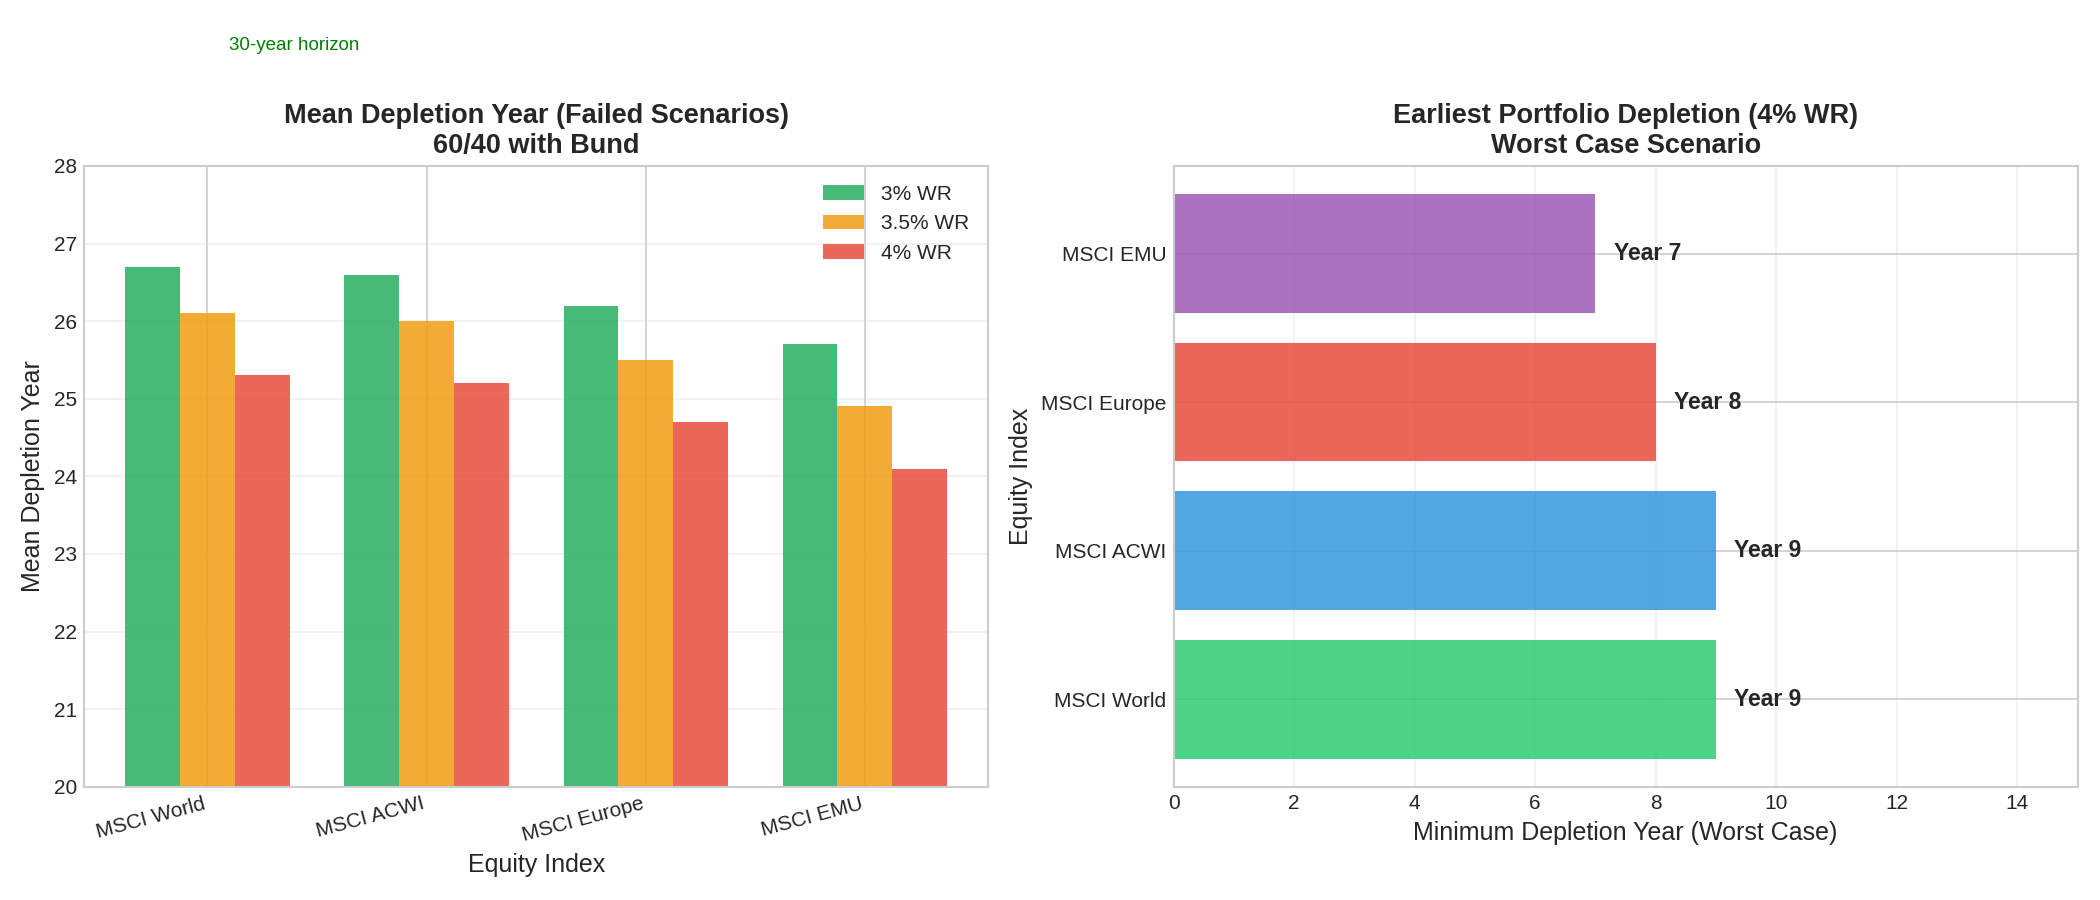
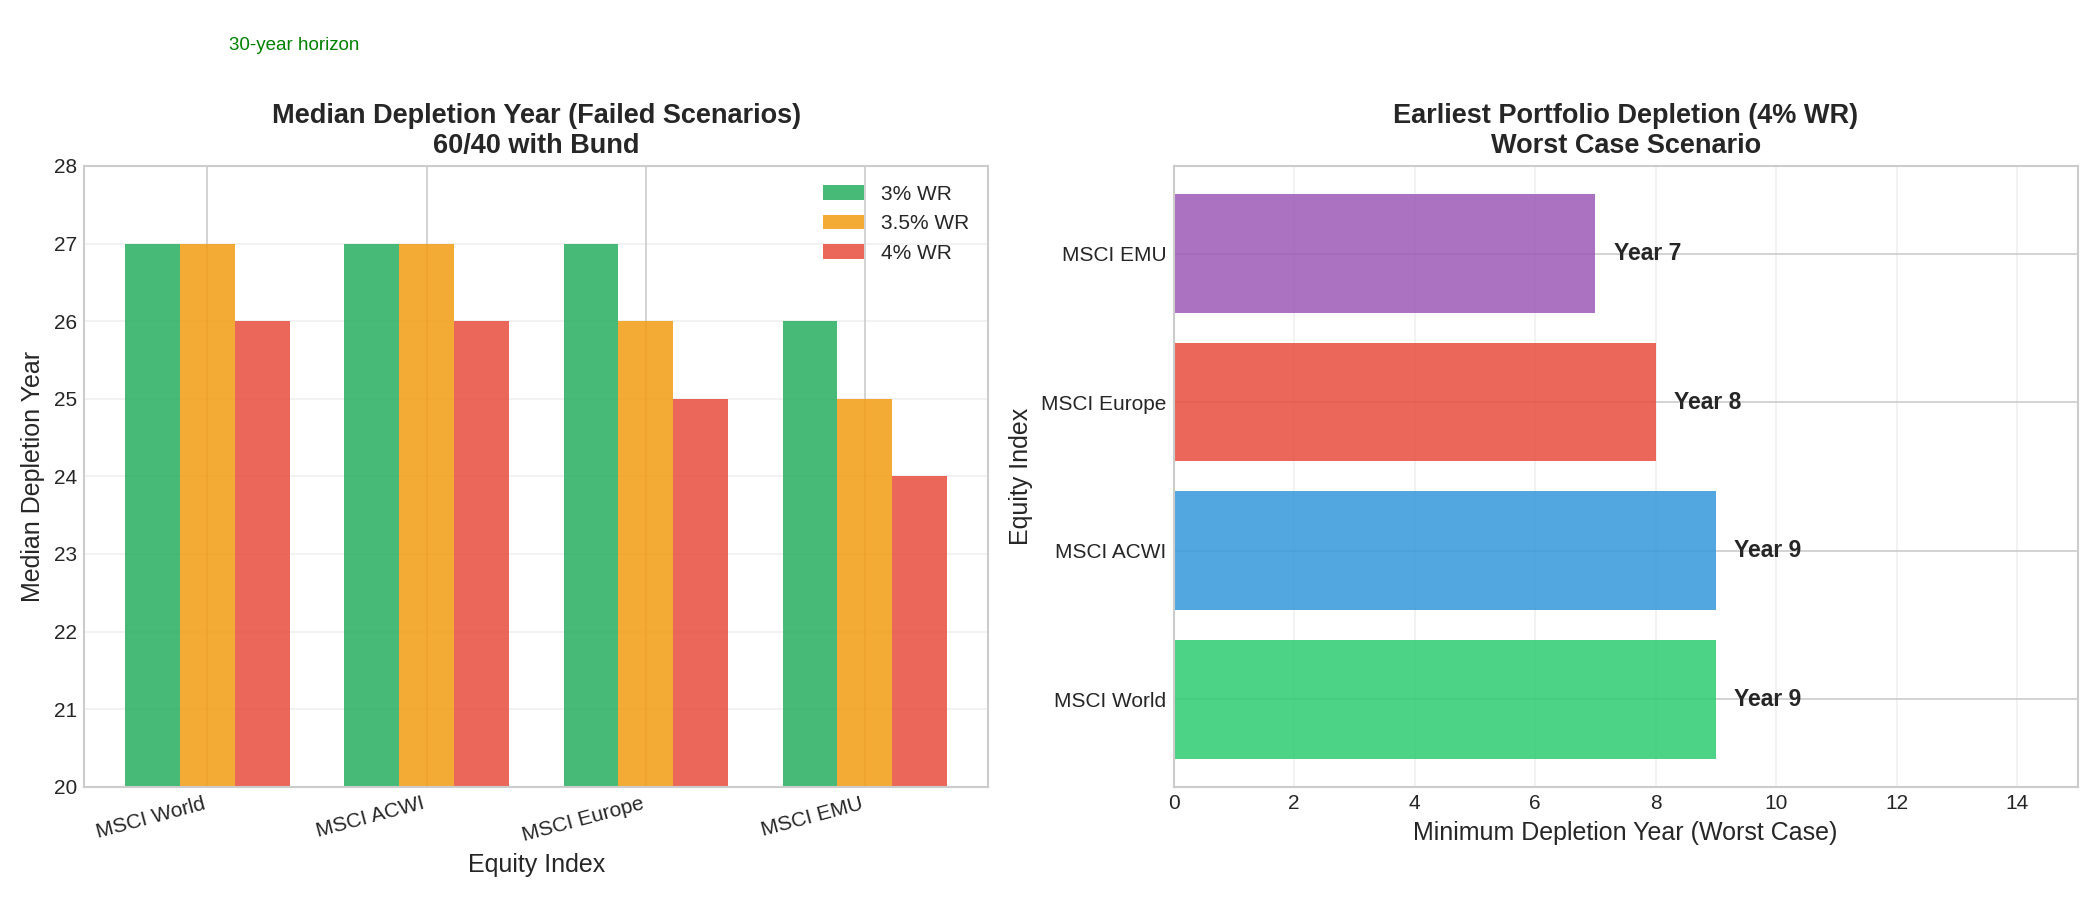
ange from mean to median

diff --git a/src/tools/plots.py b/src/tools/plots.py
@@ -621,7 +621,7 @@ def plot_09_depletion_year_analysis(df: pd.DataFrame, output_dir: Path) -> None:
         plt.close()
         return
 
-    # Left plot: Mean Depletion Year by Index and WR (60/40 Bund)
+    # Left plot: Median Depletion Year by Index and WR (60/40 Bund)
     ax1 = axes[0]
     mask = (subset["Equity_Pct"] == 60) & (subset["Bond"] == "Bund")
     plot_data = subset[mask].copy()
@@ -633,7 +633,7 @@ def plot_09_depletion_year_analysis(df: pd.DataFrame, output_dir: Path) -> None:
 
         for i, wr in enumerate(withdrawal_rates):
             wr_data = plot_data[plot_data["WR"] == wr].set_index("Equity")
-            values = [wr_data.loc[idx, "Mean_Depletion"] if idx in wr_data.index else 0
+            values = [wr_data.loc[idx, "Median_Depletion"] if idx in wr_data.index else 0
                       for idx in INDEX_ORDER]
             offset = (i - 1) * width
             bars = ax1.bar(x + offset, values, width, label=f"{wr:g}% WR",
@@ -642,8 +642,8 @@ def plot_09_depletion_year_analysis(df: pd.DataFrame, output_dir: Path) -> None:
         ax1.set_xticks(x)
         ax1.set_xticklabels(INDEX_ORDER, rotation=15, ha="right", fontsize=10)
         ax1.set_xlabel("Equity Index", fontsize=12)
-        ax1.set_ylabel("Mean Depletion Year", fontsize=12)
-        ax1.set_title("Mean Depletion Year (Failed Scenarios)\n60/40 with Bund",
+        ax1.set_ylabel("Median Depletion Year", fontsize=12)
+        ax1.set_title("Median Depletion Year (Failed Scenarios)\n60/40 with Bund",
                       fontsize=13, fontweight="bold")
         ax1.legend(fontsize=10)
         ax1.set_ylim(20, 28)
@@ -731,18 +731,18 @@ def plot_10_depletion_risk_heatmap(df: pd.DataFrame, output_dir: Path) -> None:
                       fontsize=13, fontweight="bold")
         ax1.set_xticklabels([f"{float(x.get_text()):g}%" for x in ax1.get_xticklabels()], fontsize=11)
 
-    # Right: Mean Depletion Year (60/40 allocation)
+    # Right: Median Depletion Year (60/40 allocation)
     ax2 = axes[1]
-    pivot_mean = subset[mask_60].pivot_table(
-        index="Equity", columns="WR", values="Mean_Depletion", aggfunc="mean"
+    pivot_median = subset[mask_60].pivot_table(
+        index="Equity", columns="WR", values="Median_Depletion", aggfunc="median"
     )
-    pivot_mean = pivot_mean.reindex([i for i in INDEX_ORDER if i in pivot_mean.index])
+    pivot_median = pivot_median.reindex([i for i in INDEX_ORDER if i in pivot_median.index])
 
-    if not pivot_mean.empty:
+    if not pivot_median.empty:
         sns.heatmap(
-            pivot_mean,
+            pivot_median,
             annot=True,
-            fmt=".1f",
+            fmt=".0f",
             cmap="RdYlGn",
             center=25,
             vmin=20,
@@ -755,7 +755,7 @@ def plot_10_depletion_risk_heatmap(df: pd.DataFrame, output_dir: Path) -> None:
         )
         ax2.set_xlabel("Withdrawal Rate (%)", fontsize=12)
         ax2.set_ylabel("", fontsize=12)
-        ax2.set_title("Average Depletion Year (Failed Scenarios)\n60/40 with Bund",
+        ax2.set_title("Median Depletion Year (Failed Scenarios)\n60/40 with Bund",
                       fontsize=13, fontweight="bold")
         ax2.set_xticklabels([f"{float(x.get_text()):g}%" for x in ax2.get_xticklabels()], fontsize=11)
 
@@ -794,15 +794,15 @@ def plot_11_depletion_vs_allocation(df: pd.DataFrame, output_dir: Path) -> None:
             if wr_data.empty:
                 continue
 
-            # Plot Min, Mean, Median depletion
+            # Plot Min and Median depletion
             ax.fill_between(wr_data["Equity_Pct"],
                            wr_data["Min_Depletion"],
-                           wr_data["Mean_Depletion"],
+                           wr_data["Median_Depletion"],
                            alpha=0.2, color=WR_COLORS.get(wr, "gray"))
-            ax.plot(wr_data["Equity_Pct"], wr_data["Mean_Depletion"],
+            ax.plot(wr_data["Equity_Pct"], wr_data["Median_Depletion"],
                     marker="o", markersize=6, linewidth=2,
                     color=WR_COLORS.get(wr, "gray"),
-                    label=f"{wr:g}% WR (Mean)")
+                    label=f"{wr:g}% WR (Median)")
             ax.plot(wr_data["Equity_Pct"], wr_data["Min_Depletion"],
                     marker="v", markersize=5, linewidth=1.5,
                     linestyle="--", color=WR_COLORS.get(wr, "gray"),
@@ -821,7 +821,7 @@ def plot_11_depletion_vs_allocation(df: pd.DataFrame, output_dir: Path) -> None:
         ax.axhline(y=30, color="green", linestyle=":", alpha=0.5, linewidth=1.5)
 
     fig.suptitle("Depletion Year vs Equity Allocation\n"
-                 "(Solid=Mean, Dashed=Min, Shaded=Range)",
+                 "(Solid=Median, Dashed=Min, Shaded=Range)",
                  fontsize=15, fontweight="bold", y=1.02)
 
     plt.tight_layout()
@@ -850,13 +850,13 @@ def plot_12_depletion_spread_analysis(df: pd.DataFrame, output_dir: Path) -> Non
         plt.close()
         return
 
-    # Calculate spread
-    subset["Depletion_Spread"] = subset["Mean_Depletion"] - subset["Min_Depletion"]
+    # Calculate spread (Median - Min)
+    subset["Depletion_Spread"] = subset["Median_Depletion"] - subset["Min_Depletion"]
 
     # Left: Spread by Index and WR
     ax1 = axes[0]
     pivot_spread = subset.pivot_table(
-        index="Equity", columns="WR", values="Depletion_Spread", aggfunc="mean"
+        index="Equity", columns="WR", values="Depletion_Spread", aggfunc="median"
     )
     pivot_spread = pivot_spread.reindex([i for i in INDEX_ORDER if i in pivot_spread.index])
 
@@ -864,33 +864,31 @@ def plot_12_depletion_spread_analysis(df: pd.DataFrame, output_dir: Path) -> Non
         pivot_spread.plot(kind="bar", ax=ax1, width=0.8,
                           color=[WR_COLORS.get(c, "gray") for c in pivot_spread.columns])
         ax1.set_xlabel("Equity Index", fontsize=12)
-        ax1.set_ylabel("Spread (Mean - Min Depletion Years)", fontsize=12)
+        ax1.set_ylabel("Spread (Median - Min Depletion Years)", fontsize=12)
         ax1.set_title("Depletion Year Spread by Index\n(Larger = More Uncertainty)",
                       fontsize=13, fontweight="bold")
         ax1.set_xticklabels(ax1.get_xticklabels(), rotation=15, ha="right")
         ax1.legend(title="WR", labels=[f"{wr:g}%" for wr in pivot_spread.columns])
         ax1.grid(True, alpha=0.3, axis="y")
 
-    # Right: Visualization of Min vs Mean vs Median for 4% WR
+    # Right: Visualization of Min vs Median for 4% WR
     ax2 = axes[1]
     subset_4pct = subset[subset["WR"] == 4.0].set_index("Equity").reindex(INDEX_ORDER).dropna()
 
     if not subset_4pct.empty:
         x = np.arange(len(subset_4pct))
-        width = 0.25
+        width = 0.3
 
-        ax2.bar(x - width, subset_4pct["Min_Depletion"], width,
+        ax2.bar(x - width/2, subset_4pct["Min_Depletion"], width,
                 label="Min (Worst Case)", color="#e74c3c", alpha=0.85)
-        ax2.bar(x, subset_4pct["Median_Depletion"], width,
-                label="Median", color="#f39c12", alpha=0.85)
-        ax2.bar(x + width, subset_4pct["Mean_Depletion"], width,
-                label="Mean", color="#27ae60", alpha=0.85)
+        ax2.bar(x + width/2, subset_4pct["Median_Depletion"], width,
+                label="Median", color="#27ae60", alpha=0.85)
 
         ax2.set_xticks(x)
         ax2.set_xticklabels(subset_4pct.index, rotation=15, ha="right", fontsize=10)
         ax2.set_xlabel("Equity Index", fontsize=12)
         ax2.set_ylabel("Depletion Year", fontsize=12)
-        ax2.set_title("Depletion Year Statistics (4% WR)\n60/40 with Bund",
+        ax2.set_title("Depletion Year: Min vs Median (4% WR)\n60/40 with Bund",
                       fontsize=13, fontweight="bold")
         ax2.legend(fontsize=10)
         ax2.set_ylim(0, 30)
@@ -898,13 +896,11 @@ def plot_12_depletion_spread_analysis(df: pd.DataFrame, output_dir: Path) -> Non
         ax2.grid(True, alpha=0.3, axis="y")
 
         # Add value labels
-        for i, (min_v, med_v, mean_v) in enumerate(zip(
+        for i, (min_v, med_v) in enumerate(zip(
                 subset_4pct["Min_Depletion"],
-                subset_4pct["Median_Depletion"],
-                subset_4pct["Mean_Depletion"])):
-            ax2.text(i - width, min_v + 0.5, f"{min_v:.0f}", ha="center", fontsize=9)
-            ax2.text(i, med_v + 0.5, f"{med_v:.0f}", ha="center", fontsize=9)
-            ax2.text(i + width, mean_v + 0.5, f"{mean_v:.1f}", ha="center", fontsize=9)
+                subset_4pct["Median_Depletion"])):
+            ax2.text(i - width/2, min_v + 0.5, f"{min_v:.0f}", ha="center", fontsize=10)
+            ax2.text(i + width/2, med_v + 0.5, f"{med_v:.0f}", ha="center", fontsize=10)
 
     plt.tight_layout()
     plt.savefig(output_dir / "12_depletion_spread_analysis.png", dpi=150)
@@ -924,7 +920,7 @@ def plot_13_failure_rate_vs_depletion(df: pd.DataFrame, output_dir: Path) -> Non
     fig, ax = plt.subplots(figsize=FIGSIZE_SQUARE)
 
     # Filter to Bund portfolios with depletion data
-    mask = (df["Bond"] == "Bund") & (df["Mean_Depletion"].notna())
+    mask = (df["Bond"] == "Bund") & (df["Median_Depletion"].notna())
     subset = df[mask].copy()
 
     if subset.empty:
@@ -943,7 +939,7 @@ def plot_13_failure_rate_vs_depletion(df: pd.DataFrame, output_dir: Path) -> Non
                 continue
             ax.scatter(
                 data["Failure_Rate"],
-                data["Mean_Depletion"],
+                data["Median_Depletion"],
                 c=WR_COLORS.get(wr, "gray"),
                 marker=EQUITY_MARKERS.get(equity, "o"),
                 s=100,
@@ -967,8 +963,8 @@ def plot_13_failure_rate_vs_depletion(df: pd.DataFrame, output_dir: Path) -> Non
               title="Equity Index", title_fontsize=11)
 
     ax.set_xlabel("Failure Rate (%)", fontsize=13)
-    ax.set_ylabel("Mean Depletion Year", fontsize=13)
-    ax.set_title("Failure Rate vs Mean Depletion Year\n"
+    ax.set_ylabel("Median Depletion Year", fontsize=13)
+    ax.set_title("Failure Rate vs Median Depletion Year\n"
                  "Do Higher Failure Rates Mean Earlier Failures?",
                  fontsize=14, fontweight="bold")
     ax.grid(True, alpha=0.3)
@@ -1016,13 +1012,13 @@ def plot_14_depletion_global_vs_european(df: pd.DataFrame, output_dir: Path) -> 
     for wr in withdrawal_rates:
         wr_data = subset[subset["WR"] == wr]
         global_min = wr_data[wr_data["Equity"].isin(GLOBAL_INDICES)]["Min_Depletion"].mean()
-        global_mean = wr_data[wr_data["Equity"].isin(GLOBAL_INDICES)]["Mean_Depletion"].mean()
+        global_median = wr_data[wr_data["Equity"].isin(GLOBAL_INDICES)]["Median_Depletion"].mean()
         european_min = wr_data[wr_data["Equity"].isin(EUROPEAN_INDICES)]["Min_Depletion"].mean()
-        european_mean = wr_data[wr_data["Equity"].isin(EUROPEAN_INDICES)]["Mean_Depletion"].mean()
+        european_median = wr_data[wr_data["Equity"].isin(EUROPEAN_INDICES)]["Median_Depletion"].mean()
         results.append({
             "WR": wr,
-            "Global_Min": global_min, "Global_Mean": global_mean,
-            "European_Min": european_min, "European_Mean": european_mean
+            "Global_Min": global_min, "Global_Median": global_median,
+            "European_Min": european_min, "European_Median": european_median
         })
 
     results_df = pd.DataFrame(results)
@@ -1055,18 +1051,18 @@ def plot_14_depletion_global_vs_european(df: pd.DataFrame, output_dir: Path) -> 
         ax1.text(bar.get_x() + bar.get_width()/2, bar.get_height() + 0.3,
                  f"{bar.get_height():.0f}", ha="center", fontsize=10)
 
-    # Middle: Mean Depletion Comparison
+    # Middle: Median Depletion Comparison
     ax2 = axes[1]
-    bars3 = ax2.bar(x - width/2, results_df["Global_Mean"], width,
+    bars3 = ax2.bar(x - width/2, results_df["Global_Median"], width,
                     label="Global", color="#2ecc71", alpha=0.85)
-    bars4 = ax2.bar(x + width/2, results_df["European_Mean"], width,
+    bars4 = ax2.bar(x + width/2, results_df["European_Median"], width,
                     label="European", color="#e74c3c", alpha=0.85)
 
     ax2.set_xticks(x)
     ax2.set_xticklabels([f"{wr:g}%" for wr in withdrawal_rates], fontsize=11)
     ax2.set_xlabel("Withdrawal Rate", fontsize=12)
-    ax2.set_ylabel("Mean Depletion Year", fontsize=12)
-    ax2.set_title("Average Failure Year\n60/40 with Bund",
+    ax2.set_ylabel("Median Depletion Year", fontsize=12)
+    ax2.set_title("Median Failure Year\n60/40 with Bund",
                   fontsize=13, fontweight="bold")
     ax2.legend(fontsize=10)
     ax2.set_ylim(20, 28)
@@ -1084,10 +1080,10 @@ def plot_14_depletion_global_vs_european(df: pd.DataFrame, output_dir: Path) -> 
     # Right: Gap Analysis (Years earlier for European)
     ax3 = axes[2]
     gap_min = results_df["Global_Min"] - results_df["European_Min"]
-    gap_mean = results_df["Global_Mean"] - results_df["European_Mean"]
+    gap_median = results_df["Global_Median"] - results_df["European_Median"]
 
     ax3.bar(x - width/2, gap_min, width, label="Min Gap", color="#3498db", alpha=0.85)
-    ax3.bar(x + width/2, gap_mean, width, label="Mean Gap", color="#9b59b6", alpha=0.85)
+    ax3.bar(x + width/2, gap_median, width, label="Median Gap", color="#9b59b6", alpha=0.85)
 
     ax3.set_xticks(x)
     ax3.set_xticklabels([f"{wr:g}%" for wr in withdrawal_rates], fontsize=11)
@@ -1100,9 +1096,9 @@ def plot_14_depletion_global_vs_european(df: pd.DataFrame, output_dir: Path) -> 
     ax3.grid(True, alpha=0.3, axis="y")
 
     # Add value labels
-    for i, (g_min, g_mean) in enumerate(zip(gap_min, gap_mean)):
+    for i, (g_min, g_median) in enumerate(zip(gap_min, gap_median)):
         ax3.text(i - width/2, g_min + 0.1, f"+{g_min:.1f}", ha="center", fontsize=10)
-        ax3.text(i + width/2, g_mean + 0.1, f"+{g_mean:.1f}", ha="center", fontsize=10)
+        ax3.text(i + width/2, g_median + 0.1, f"+{g_median:.1f}", ha="center", fontsize=10)
 
     fig.suptitle("Depletion Year: Global vs European Indices",
                  fontsize=16, fontweight="bold", y=1.02)
